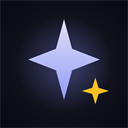
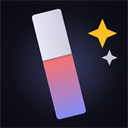
アイコンをリトマス紙モチーフに刷新し、スクリーンショットとkeywordsを追加する
- アイコンが星要素だけでツール名(リトマス試験紙)と結びついていなかったため、
  傾けた試験紙の下半分が赤→インディゴに変色した図に描き直す。星は
  コンステレーションマップとの連続性を保つアクセントとして小さく残した。
  配色はtailwind.config.jsのbrandカラー。32px表示でも紙・変色・星が
  判別できることを確認済み。
- Marketplace READMEにスクリーンショットを追加する。Marketplaceは相対パスを
  解決しないため、raw.githubusercontent.comの絶対URLで参照する。
  ※このURLはリポジトリが公開されるまで404になる。
- 検索性のためkeywordsを14件設定する。

Changed region(s): [[0.2188, 0.0625, 0.9375, 0.9375], [0.6875, 0.1562, 0.9375, 0.375]]

diff --git a/vscode-extension/README.md b/vscode-extension/README.md
@@ -6,6 +6,10 @@
 
 リトマス試験紙のように、「このコードを自分は本当に理解できているか」を判定します。
 
+![CodeLitmusのパネル画面 — 学習の星図(コンステレーションマップ)、Mermaid構造フローチャート、Chunk単位の質問と再回答ガイド](https://raw.githubusercontent.com/ohban730/CodeLitmus/main/docs/screenshots/constellation-map.png)
+
+下部Panel領域(TERMINAL等と同じ場所)に表示される「CODELITMUS」タブ。関数/クラス単位のChunkが星として配置され、質問への回答・厳格採点・再回答ガイドまでの一連の流れがここで進みます。
+
 ## できること
 
 - 開いているPythonファイルをAST解析し、関数/クラス/エントリーポイント単位の**Chunk**に分割
